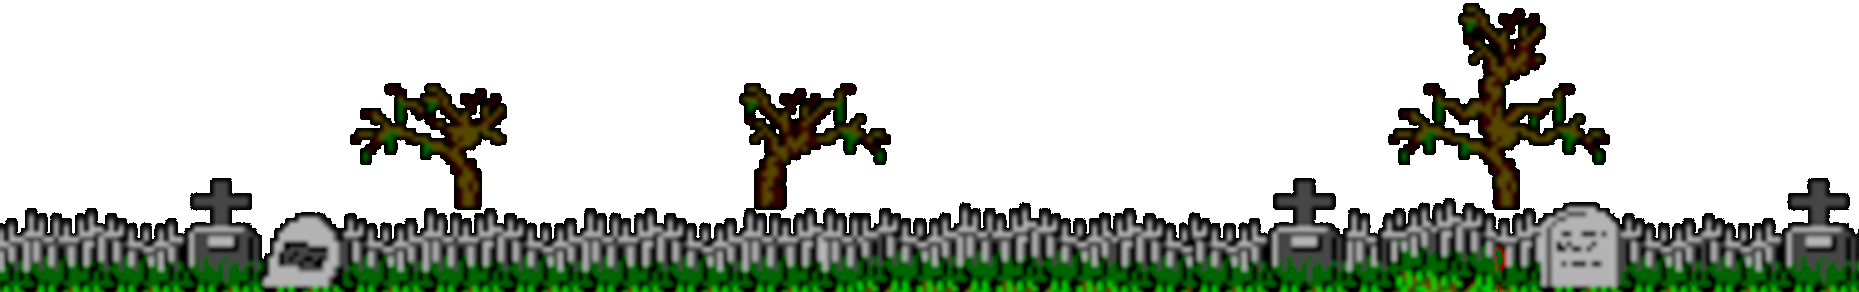
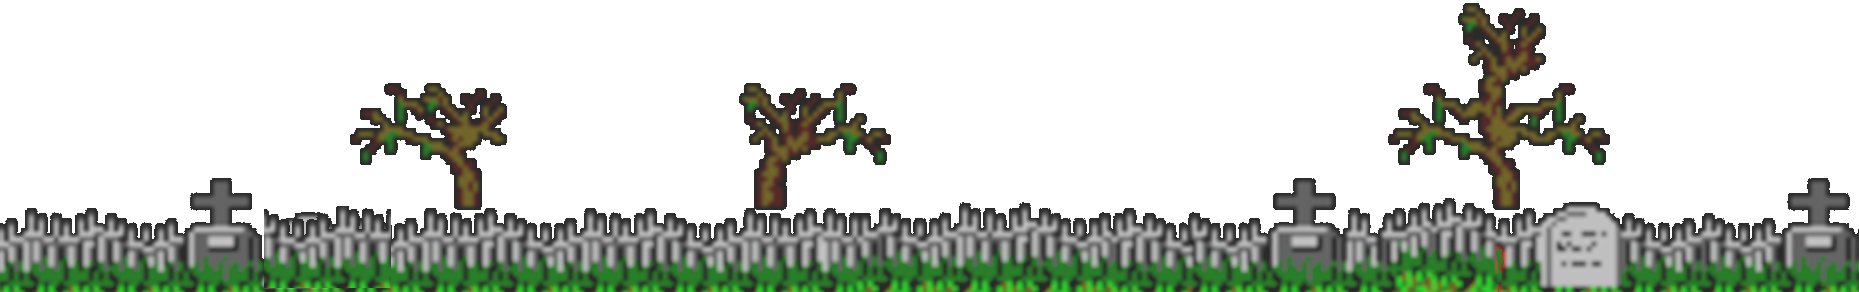
Mario Contra 11 : cross

Changed region(s): [[0.0, 0.0, 1.0, 1.0]]

diff --git a/other/mario-contra/level2.1.js b/other/mario-contra/level2.1.js
@@ -6,9 +6,10 @@ class Scene2_1 extends MainScene {
 
     preload() {
         super.preload();
-        const toBeRemoved = ['turtle', 'castle', 'cloud', 'ground', 'question', 'fire-upgrade', 'coin'];
+        const toBeRemoved = ['turtle', 'castle', 'cloud', 'ground', 'question', 'fire-upgrade', 'coin', 'brick'];
         toBeRemoved.forEach(texture => this.textures.remove(texture));
 
+        this.load.image('brick', 'files/brick.png');
         this.load.image('ground', 'files/sprite.png');
         this.load.image('gumba', 'files/gumba.png');
         this.load.image('turtle', 'files/turtle.png');

diff --git a/other/mario-contra/mariocontra.js b/other/mario-contra/mariocontra.js
@@ -22,7 +22,6 @@ class MainScene extends Phaser.Scene {
         this.load.image('commando', 'files/commando.png');
         this.load.image('commando2', 'files/commando2.png');
         this.load.image('bullet', this.bulletPic);
-        this.load.image('brick', 'files/brick.png');
         this.currentCommandoTexture = 'kupa';
     }
 

diff --git a/other/mario-contra/level1.1.js b/other/mario-contra/level1.1.js
@@ -5,6 +5,7 @@ class Scene1_1 extends MainScene {
 
     preload() {
         super.preload();
+        this.load.image('brick', 'files/cross.png');
         this.load.image('grass', 'files/grass.png');
         this.load.image('gumba', 'files/gumba.png');
         this.load.image('turtle', 'files/zombie.png');
